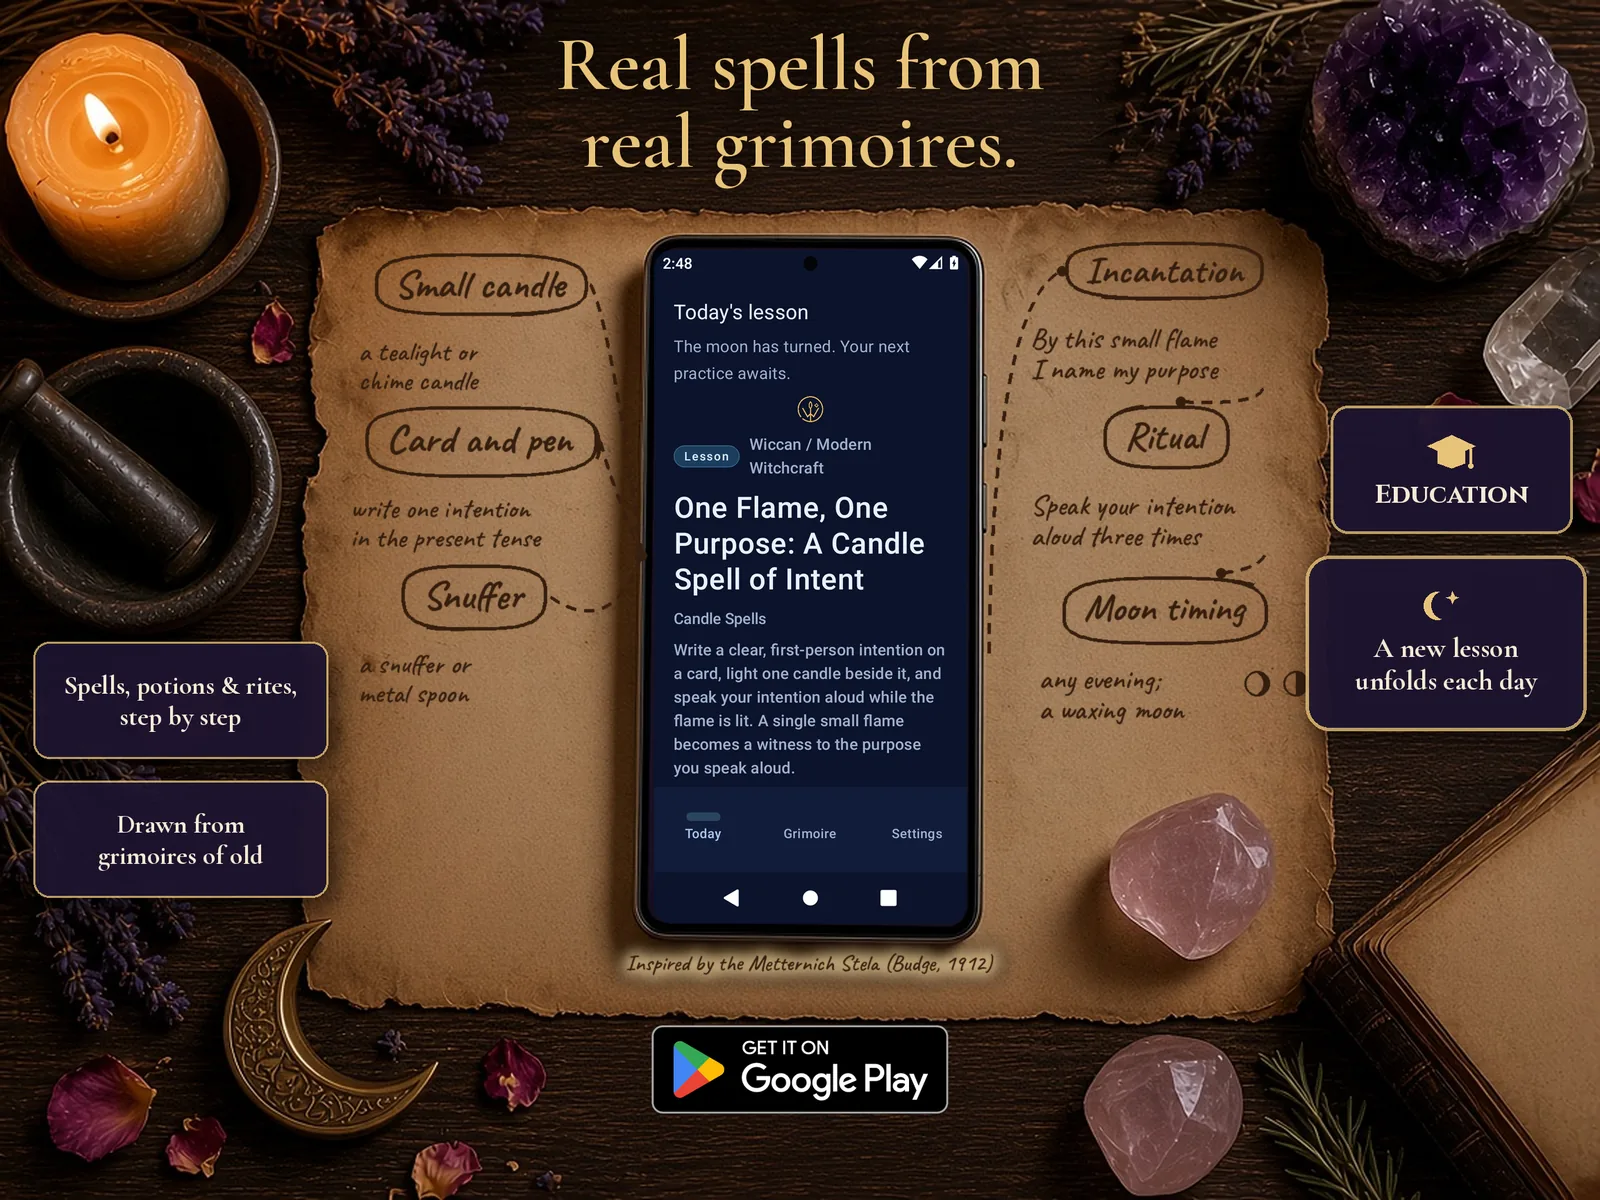
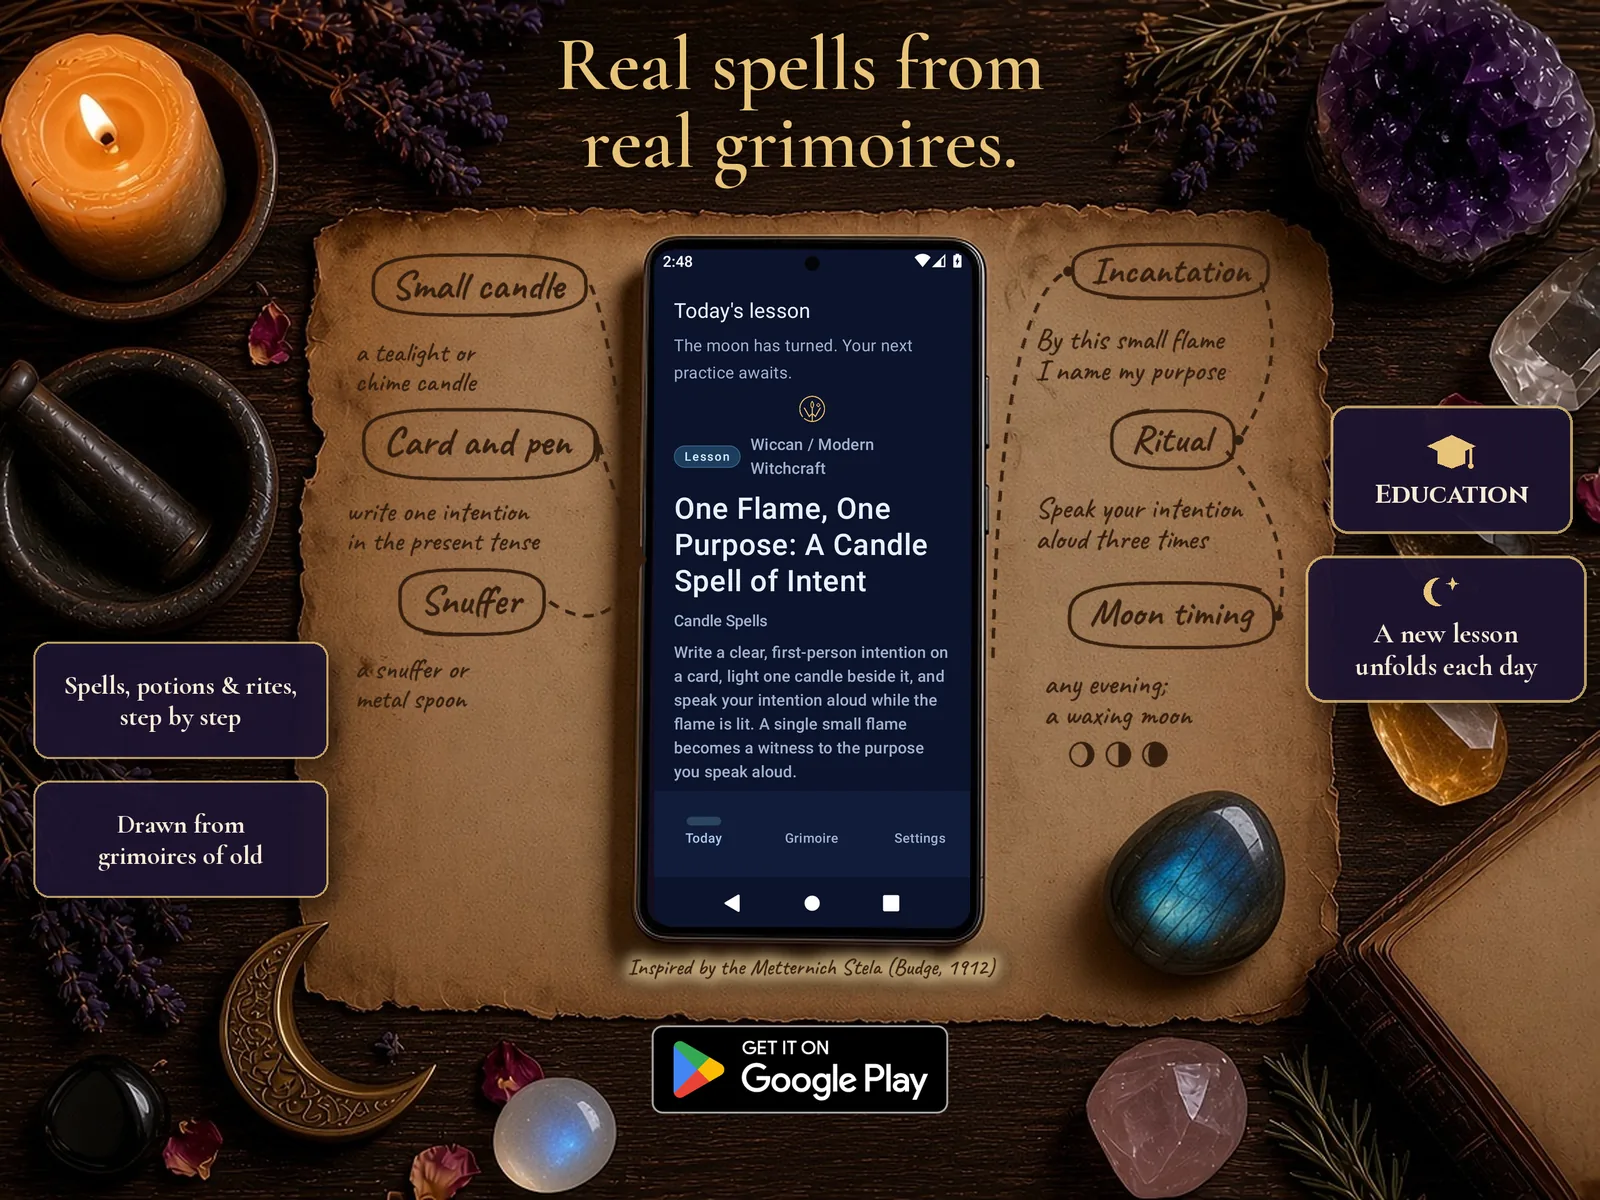
Update the spell-map promo card: labradorite and witchcraft stones, fixed moon row, smoother ink
Regenerated scene: one rose quartz is replaced by labradorite, and black obsidian,
moonstone, citrine and smoky quartz are added. The moon row now sits under
'a waxing moon', clear of the parchment edge and the cards. The right-hand
links now run label to label. The ink is rendered at 2x. The alt text now lists
the stones.

diff --git a/hosting/index.html b/hosting/index.html
@@ -59,7 +59,7 @@
       <a href="https://play.google.com/store/apps/details?id=com.jaimesorrow.wiccan" target="_blank" rel="noopener noreferrer">
         <picture>
           <source srcset="/assets/promo-card.webp" type="image/webp">
-          <img src="/assets/promo-card.jpg" width="1600" height="1200" loading="lazy" decoding="async" alt="A spell map by candlelight. Promotional artwork: an Android phone showing the Wiccan app open to the lesson &ldquo;One Flame, One Purpose: A Candle Spell of Intent&rdquo; lies on aged parchment in an AI-generated scene with a lit candle, a mortar and pestle, lavender, amethyst, rose quartz, and a brass crescent moon. Hand-inked notes circle the ingredients (small candle, card and pen, snuffer) and link them to the incantation, the ritual, and waxing-moon timing, with the credit &ldquo;Inspired by the Metternich Stela (Budge, 1912).&rdquo; Headline: Real spells from real grimoires. Cards read: Spells, potions &amp; rites, step by step; Drawn from grimoires of old; Education; A new lesson unfolds each day. A Get it on Google Play badge sits below.">
+          <img src="/assets/promo-card.jpg" width="1600" height="1200" loading="lazy" decoding="async" alt="A spell map by candlelight. Promotional artwork: an Android phone showing the Wiccan app open to the lesson &ldquo;One Flame, One Purpose: A Candle Spell of Intent&rdquo; lies on aged parchment in an AI-generated scene with a lit candle, a mortar and pestle, lavender, an amethyst cluster, a clear quartz point, an iridescent labradorite stone, rose quartz, moonstone, black obsidian, citrine, smoky quartz, and a brass crescent moon. Hand-inked notes circle the ingredients (small candle, card and pen, snuffer) and link them to the incantation, the ritual, and waxing-moon timing, with the credit &ldquo;Inspired by the Metternich Stela (Budge, 1912).&rdquo; Headline: Real spells from real grimoires. Cards read: Spells, potions &amp; rites, step by step; Drawn from grimoires of old; Education; A new lesson unfolds each day. A Get it on Google Play badge sits below.">
         </picture>
       </a>
     </figure>
